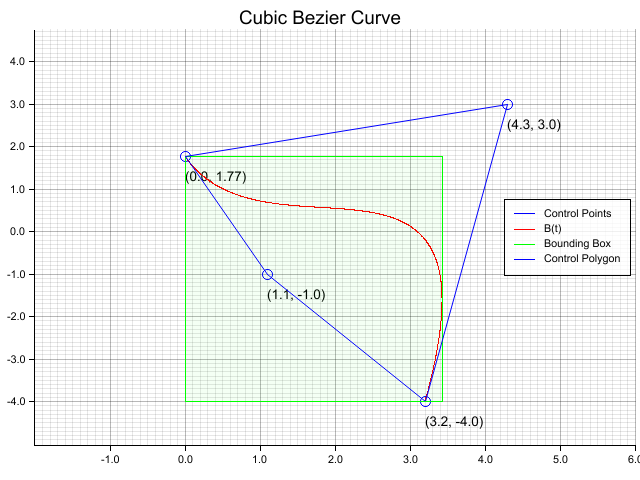
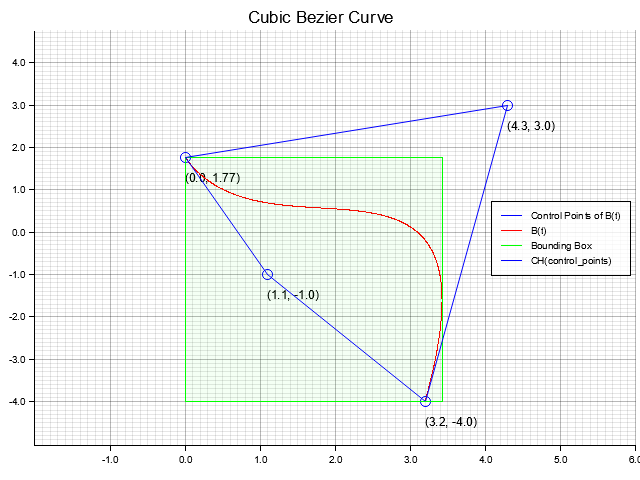
fix generic bezier derivative; add control_points() methods; fix plot

diff --git a/examples/plotters.rs b/examples/plotters.rs
@@ -2,19 +2,22 @@ extern crate plotters;
 use plotters::prelude::*;
 
 extern crate stroke;
-use stroke::cubic_bezier::CubicBezier;
+use stroke::CubicBezier;
 use stroke::Point;
 use stroke::PointN;
 
 fn main() -> Result<(), Box<dyn std::error::Error>> {
-    let cp = vec![
+
+    // control points for the cubic bezier curve
+    let cpoints = vec![
         (0f64, 1.77f64),
         (1.1f64, -1f64),
         (4.3f64, 3f64),
         (3.2f64, -4f64),
     ];
 
-    let ch = vec![
+    // the path for drawing the convex hull needs to be closed
+    let chull = vec![
         (0f64, 1.77f64),
         (1.1f64, -1f64),
         (3.2f64, -4f64),
@@ -23,10 +26,10 @@ fn main() -> Result<(), Box<dyn std::error::Error>> {
     ];
 
     let bezier = CubicBezier::new(
-        PointN::new([0f64, 1.77f64]),
-        PointN::new([1.1f64, -1f64]),
-        PointN::new([4.3f64, 3f64]),
-        PointN::new([3.2f64, -4f64]),
+            PointN::new([0f64, 1.77f64]),
+            PointN::new([1.1f64, -1f64]),
+            PointN::new([4.3f64, 3f64]),
+            PointN::new([3.2f64, -4f64])
     );
 
     let bounds = bezier.bounding_box();
@@ -35,8 +38,10 @@ fn main() -> Result<(), Box<dyn std::error::Error>> {
     let ymin = bounds[1].0;
     let ymax = bounds[1].1;
 
+    // render the paths of the curve to desired accuracy
     let nsteps: usize = 1000;
     let mut bezier_graph: Vec<(f64, f64)> = Vec::with_capacity(nsteps);
+    let deriv = bezier.derivative();
     for t in 0..nsteps {
         let t = t as f64 * 1f64 / (nsteps as f64);
         let p = bezier.eval_casteljau(t);
@@ -52,14 +57,14 @@ fn main() -> Result<(), Box<dyn std::error::Error>> {
         .margin(5)
         .x_label_area_size(30)
         .y_label_area_size(30)
-        .build_cartesian_2d((bounds[0].0 - 2.0)..xmin + 6.0, ymin - 1.0..ymax + 3.0)?; // make graph a bit bigger than bounding box
+        .build_cartesian_2d((bounds[0].0 - 2.0)..(xmin + 6.0) , (ymin - 1.0)..(ymax + 3.0) )?; // make graph a bit bigger than bounding box
 
     chart.configure_mesh().draw()?;
 
-    // draw the control points
+    // draw the control points of B(t)
     chart
         .draw_series(PointSeries::of_element(
-            cp.clone(),
+            cpoints.clone(),
             5,
             &BLUE,
             &|coord, size, style| {
@@ -72,7 +77,7 @@ fn main() -> Result<(), Box<dyn std::error::Error>> {
                     )
             },
         ))?
-        .label("Control Points")
+        .label("Control Points of B(t)")
         .legend(|(x, y)| PathElement::new(vec![(x, y), (x + 20, y)], &BLUE));
 
     // draw the actual bezier curve
@@ -80,6 +85,7 @@ fn main() -> Result<(), Box<dyn std::error::Error>> {
         .draw_series(LineSeries::new(bezier_graph, &RED))?
         .label("B(t)")
         .legend(|(x, y)| PathElement::new(vec![(x, y), (x + 20, y)], &RED));
+
 
     // draw the bounding box
     chart
@@ -100,10 +106,10 @@ fn main() -> Result<(), Box<dyn std::error::Error>> {
         .label("Bounding Box")
         .legend(|(x, y)| PathElement::new(vec![(x, y), (x + 20, y)], &GREEN));
 
-    // draw the control polygon
+    // draw the convex hull of control points
     chart
-        .draw_series(AreaSeries::new(ch.clone(), 0.0, &BLUE.mix(0.0)).border_style(&BLUE))?
-        .label("Control Polygon")
+        .draw_series(AreaSeries::new(chull, 0.0, &BLUE.mix(0.0)).border_style(&BLUE))?
+        .label("CH(control_points)")
         .legend(|(x, y)| PathElement::new(vec![(x, y), (x + 20, y)], &BLUE));
 
     chart

diff --git a/src/bezier.rs b/src/bezier.rs
@@ -49,6 +49,10 @@ where
         Bezier { control_points }
     }
 
+    pub fn control_points(&self) -> [P; N] {
+        self.control_points.clone()
+    }
+
     /// Evaluate a point on the curve at point 't' which should be in the interval [0,1]
     /// This is implemented using De Casteljau's algorithm (over a temporary array with const generic sizing)
     pub fn eval(&self, t: P::Scalar) -> P {
@@ -104,7 +108,7 @@ where
         let mut new_points: [P; N - 1] = [P::default(); N - 1];
         for (i, _) in self.control_points.iter().enumerate() {
             new_points[i] =
-                (self.control_points[i + 1] - self.control_points[i]) * (N as NativeFloat);
+                (self.control_points[i + 1] - self.control_points[i]) * ((N-1) as NativeFloat);
             if i == self.control_points.len() - 2 {
                 break;
             }

diff --git a/src/cubic_bezier.rs b/src/cubic_bezier.rs
@@ -51,6 +51,10 @@ where
         ctrl_2ab + (ctrl_2bc - ctrl_2ab) * t
     }
 
+    pub fn control_points(&self) -> [P; 4] {
+        [self.start, self.ctrl1, self.ctrl2, self.end]
+    }
+
     /// Returns the x coordinate of the curve evaluated at t
     /// Convenience shortcut for bezier.eval(t).x()
     pub fn axis(&self, t: P::Scalar, axis: usize) -> P::Scalar {

diff --git a/src/quadratic_bezier.rs b/src/quadratic_bezier.rs
@@ -37,6 +37,10 @@ where
         ctrl_1ab + (ctrl_1bc - ctrl_1ab) * t
     }
 
+    pub fn control_points(&self) -> [P; 3] {
+        [self.start, self.ctrl, self.end]
+    }
+
     pub fn split(&self, t: P::Scalar) -> (Self, Self) {
         // unrolled de casteljau algorithm
         // _1ab is the first iteration from first (a) to second (b) control point and so on
